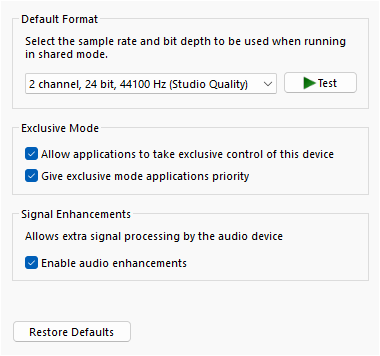
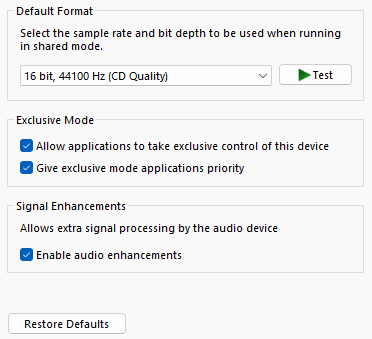
sdvx6: adjust audio information

diff --git a/docs/games/sdvx6/setup.md b/docs/games/sdvx6/setup.md
@@ -263,7 +263,7 @@
 	- Go to the `Advanced` tab.
 	- Check both boxes under `Exclusive Mode`.
 	- Open the `Default Format` dropdown.
-	- Pick the `24 bit, 44100 Hz (CD Quality)` option and click `Apply` then `OK`. `24 bit, 48000 Hz` is also acceptable as spice2x will handle it.
+	- Pick the `16 bit, 44100 Hz (CD Quality)` option and click `Apply` then `OK`.
 
 	<img src="/img/sdvx6/setup/6_audio.png">
 

diff --git a/docs/games/sdvx6/troubleshooting.md b/docs/games/sdvx6/troubleshooting.md
@@ -65,7 +65,7 @@
 	You can use the `Shared Mode WASAPI` patch to deal with some hardware issues, it can also be used to hear audio outside the game at the cost of audio latency.  
 
 ---
-### I'm not getting any audio, or my audio is completely wrecked and I'm using an External Dac!
+### I'm not getting any audio / My game crashes due to audio
 
 !!! tip ""
 
